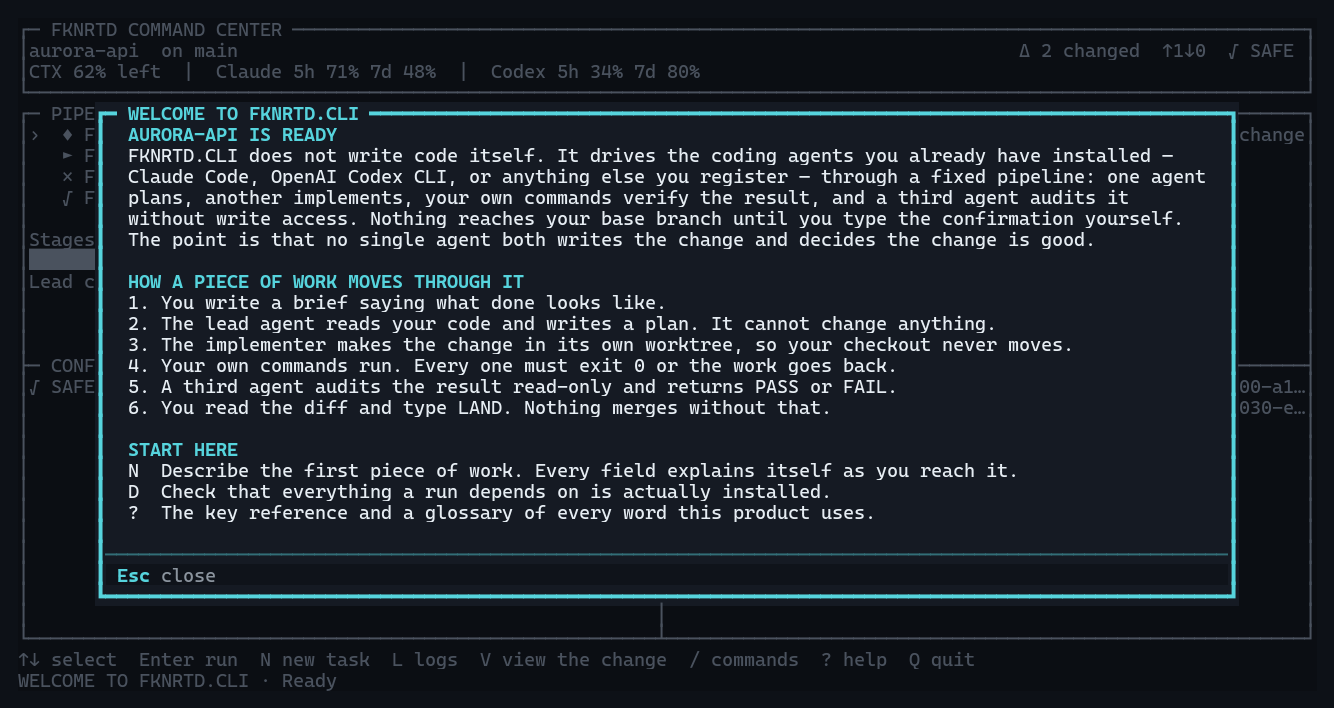
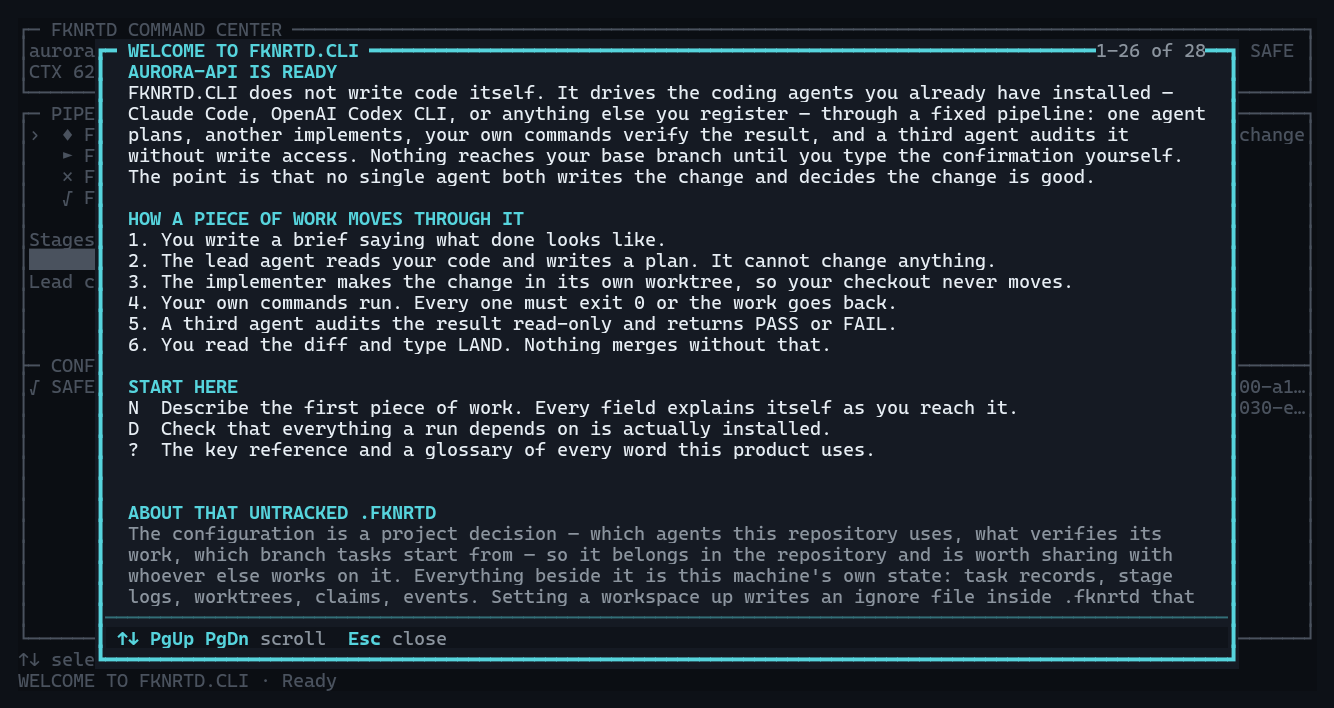
Put the commit advice where a bare fknrtd will see it
Setting up prints it, but running fknrtd with no arguments provisions the
workspace and goes straight into the dashboard — so that line scrolls away into
the alternate screen before anyone reads it, which is precisely the path a
first-time user takes.

The introduction now carries it, read from the same glossary entry, so the two
cannot drift.

Verified locally: dotnet build clean, 42/42 self-tests passing.

Changed region(s): [[0.0615, 0.0621, 0.9528, 0.9633]]

diff --git a/fknrtd-portal.html b/fknrtd-portal.html
@@ -24,7 +24,7 @@ label{display:block;font-weight:600;margin-top:1.5rem}input{width:100%;min-width
 <nav aria-label=Sections><a href=#overview>Start here</a><a href=#pipeline>Eight-stage pipeline</a><a href=#commands>Commands</a><a href=#keymap>Dashboard keys</a><a href=#glossary>Glossary</a><a href=#settings>Configuration</a><a href=#built>How this was built</a><a href=#state>Files on disk</a><a href=#exit-codes>Exit codes</a></nav>
 <div id=filter-controls hidden><label for=filter>Find a command or concept</label><input id=filter type=search placeholder="Try brief, audit, task…" autocomplete=off aria-controls="commands glossary"><button id=clear-filter type=button>Clear filter</button><p id=filter-status class=filter-status role=status aria-live=polite></p></div>
 <noscript><p>All entries are shown. Use your browser's Find command to search.</p></noscript></aside>
-<main id=main><section id=overview aria-labelledby=overview-title><p class=eyebrow>Operator guide / offline edition</p><h1 id=overview-title>Your agents.<br>Your final say.</h1><p class=edition>Version 1.0.0 &middot; Generated <time datetime="2026-09-17T06:55:15.5589836+00:00">2026-09-17 06:55 UTC</time></p><p class=intro>FKNRTD.CLI coordinates the coding CLIs you already use. You write a brief; a lead plans, an implementer changes the code, your commands verify it, and an auditor reviews it. You decide when it lands.</p>
+<main id=main><section id=overview aria-labelledby=overview-title><p class=eyebrow>Operator guide / offline edition</p><h1 id=overview-title>Your agents.<br>Your final say.</h1><p class=edition>Version 1.0.0 &middot; Generated <time datetime="2026-09-17T06:56:00.7407015+00:00">2026-09-17 06:56 UTC</time></p><p class=intro>FKNRTD.CLI coordinates the coding CLIs you already use. You write a brief; a lead plans, an implementer changes the code, your commands verify it, and an auditor reviews it. You decide when it lands.</p>
 <h2>Know what you are authorizing</h2>
 <p>In Git mode, each task works on its own branch in a separate worktree. The default lead and auditor profiles are read-only; the implementer profile permits edits. Configured verification commands must pass, and the auditor must give an explicit PASS verdict, before the task can become ready to land. Merging still needs your confirmation.</p>
 <p>These controls depend on the agent profiles and verification commands you configure. Review them before running an unfamiliar CLI. A worktree isolates a checkout, not the whole machine, and your build commands run with your permissions.</p>

diff --git a/src/FKNRTD.Cli/Dashboard/Reference.cs b/src/FKNRTD.Cli/Dashboard/Reference.cs
@@ -823,6 +823,13 @@ internal static class Reference
                 "strictly safer.",
                 Theme.Amber));
         }
+        else if (Glossary.Find("what-to-commit") is { } committing)
+        {
+            // Setting up prints this too, but a bare `fknrtd` goes straight into the dashboard and
+            // that line scrolls away into the alternate screen before anyone reads it.
+            blocks.Add(new InfoHeading("About that untracked .fknrtd"));
+            blocks.Add(new InfoParagraph(committing.Detail, Theme.Muted));
+        }
 
         if (config.DefaultVerificationCommands.Count == 0)
         {
